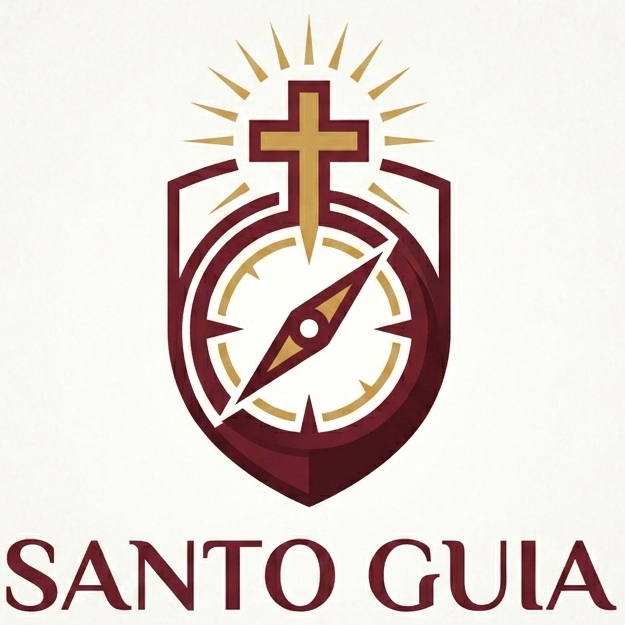
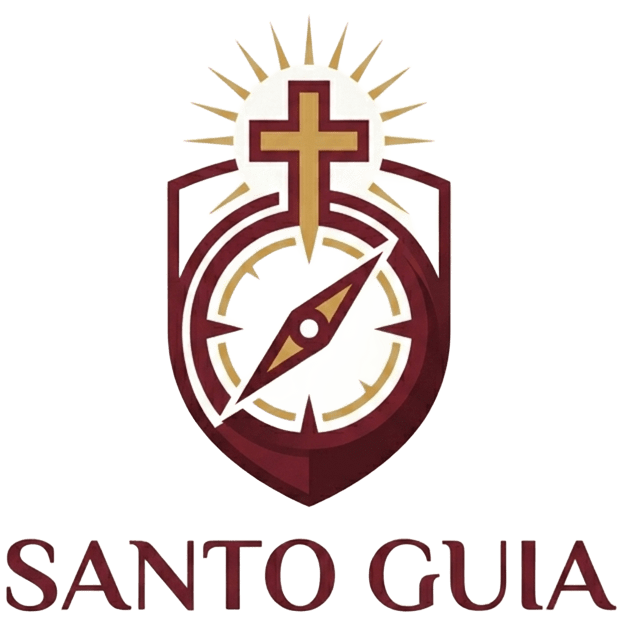
Ajustando imagem na Home

diff --git a/src/pages/HomeScreen.js b/src/pages/HomeScreen.js
@@ -1,4 +1,4 @@
-import { Alert, FlatList, ScrollView, StyleSheet, Text, View } from 'react-native';
+import { Alert, FlatList, Image, ScrollView, StyleSheet, Text, Platform, useWindowDimensions, View } from 'react-native';
 import ScreenContainer from '../components/ScreenContainer';
 import SectionTitle from '../components/SectionTitle';
 import ChurchCardMini from '../components/ChurchCardMini';
@@ -11,6 +11,8 @@ import { MOCK_CHURCHES, MOCK_MASSES, MOCK_NEWS } from '../data/mockData';
 import { COLORS, SPACING } from '../constants/theme';
 
 export default function HomeScreen({ navigation }) {
+
+
   function showComingSoon(feature) {
     Alert.alert(feature, 'Essa funcionalidade será conectada na próxima etapa.');
   }
@@ -18,7 +20,14 @@ export default function HomeScreen({ navigation }) {
   return (
     <ScreenContainer>
       <ScrollView contentContainerStyle={styles.content} showsVerticalScrollIndicator={false}>
-        <Text style={styles.eyebrow}>SantoGuia</Text>
+        <View style={styles.logoContainer}>
+        <Image
+          source={require('../../assets/logo_oficial.png')}
+          style={styles.logo}
+          resizeMode="contain"
+          accessibilityLabel="SantoGuia"
+        />
+      </View>
         <Text style={styles.title}>Encontre sua próxima celebração</Text>
         <Text style={styles.subtitle}>Igrejas, missas, orações e vida católica em um só lugar.</Text>
 
@@ -99,13 +108,37 @@ const styles = StyleSheet.create({
     padding: SPACING.md,
     paddingBottom: SPACING.xl,
   },
-  eyebrow: {
-    color: COLORS.primary,
-    fontSize: 15,
-    fontWeight: '900',
+  logoContainer: {
+    width: '100%',
+    alignItems: 'center',
+    justifyContent: 'center',
+    overflow: 'visible',
+    marginBottom: SPACING.sm,
   },
+
+  logo: Platform.select({
+    android: {
+      width: 190,
+      height: 112,
+    },
+
+    ios: {
+      width: 120,
+      height: 70,
+    },
+
+    web: {
+      width: 230,
+      height: 134,
+    },
+
+    default: {
+      width: 110,
+      height: 64,
+    },
+  }),
   title: {
-    marginTop: SPACING.xs,
+    marginTop: SPACING.sm,
     color: COLORS.text,
     fontSize: 29,
     fontWeight: '900',

diff --git a/App.js b/App.js
@@ -3,10 +3,13 @@ import { KeyboardProvider } from 'react-native-keyboard-controller';
 
 import Routes from './src/routes';
 
+
+
 export default function App() {
   return (
     <KeyboardProvider>
-      <StatusBar style="dark" />
+      <StatusBar style="dark"      
+      />
 
       <Routes />
     </KeyboardProvider>